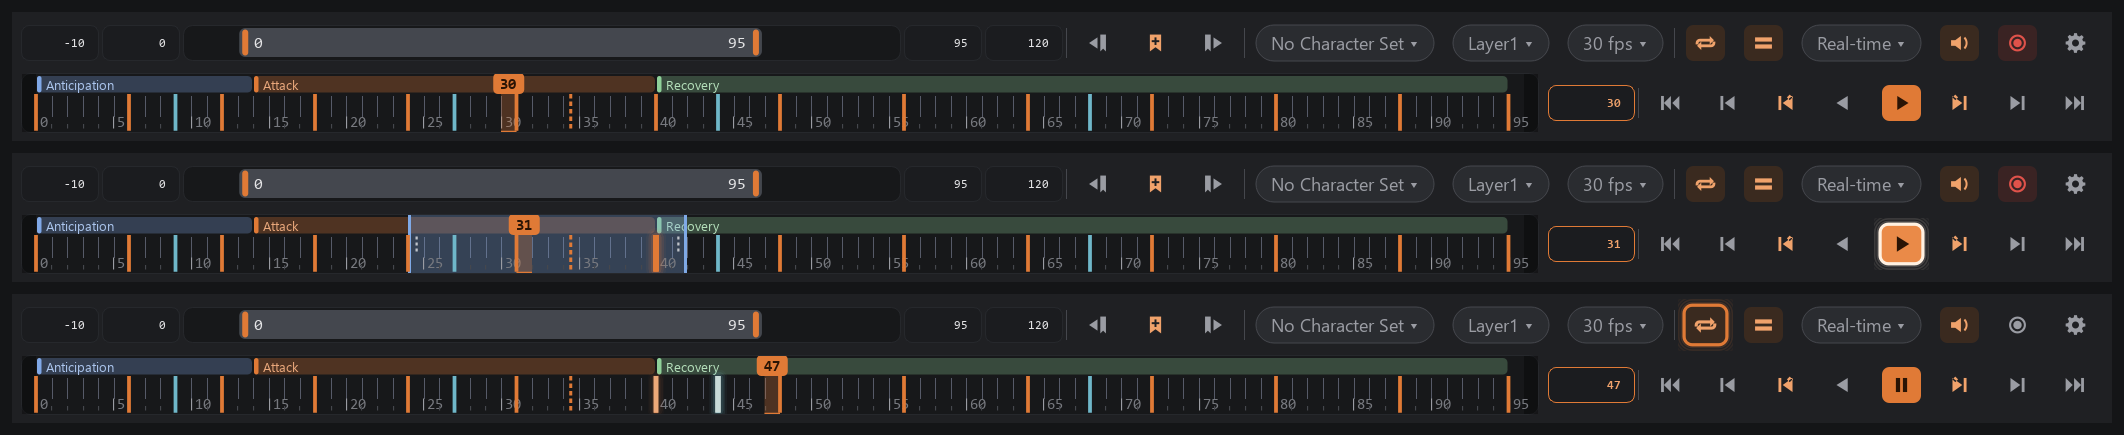
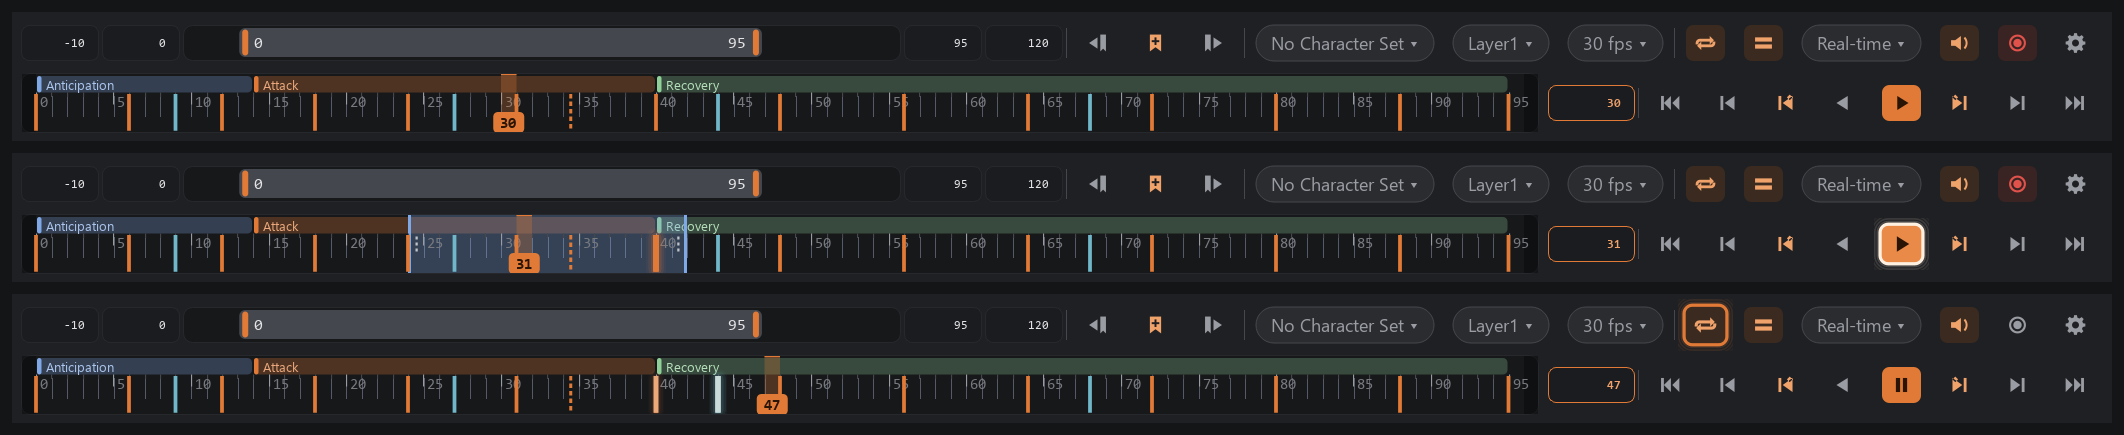
feat(timebar): frame numbers at the top, the playhead's number at the bottom, as Maya's

diff --git a/SkeldarAnim/maya_timebar/bar.py b/SkeldarAnim/maya_timebar/bar.py
@@ -697,7 +697,10 @@ def classes():
             font.setPixelSize(max(8, int(10 * ui)))
             p.setFont(font)
             metrics = QtGui.QFontMetricsF(font)
-            ry = h - 3 * ui
+            #  as Maya's slider (2026-10-17): the ticks hang from the top, under the
+            #  bookmarks band, and a frame's number stands beside its tick at the top;
+            #  the playhead's own number is at the bottom
+            ry = (BAND_H + 2) * ui
             major, minor = colour(tk["muted"]), colour(tk["line"])
             label_pen = colour(tk["faint"])
             tall_of = {"label": 8 * ui, "mid": 5 * ui, "tick": 3 * ui}
@@ -707,12 +710,12 @@ def classes():
                 tall = tall_of[kind]
                 p.setPen(Qt.NoPen)
                 p.setBrush(major if kind == "label" else minor)
-                p.drawRect(QtCore.QRectF(x, ry - tall, tick_w, tall))
+                p.drawRect(QtCore.QRectF(x, ry, tick_w, tall))
                 if kind == "label":
                     text = look.frame_text(frame)
                     if x + 3 * ui + metrics.horizontalAdvance(text) <= w - 2 * ui:
                         p.setPen(label_pen)
-                        p.drawText(QtCore.QPointF(x + 3 * ui, ry - 1 * ui), text)
+                        p.drawText(QtCore.QPointF(x + 3 * ui, ry + metrics.ascent()), text)
             # the keys at rest
             if with_keys:
                 p.setPen(Qt.NoPen)
@@ -801,7 +804,7 @@ def classes():
             tw = QtGui.QFontMetricsF(bold).horizontalAdvance(text) + 10 * ui * fz
             th = 14 * ui * fz
             fx = min(max(x - tw / 2, 1), w - tw - 1)
-            flag = QtCore.QRectF(fx, 0, tw, th)
+            flag = QtCore.QRectF(fx, h - th, tw, th)          # at the bottom, as Maya's
             glow(p, flag, 3 * ui, head.name(), self.head_lift * 0.8, ui)
             p.setPen(Qt.NoPen)
             p.setBrush(head)
